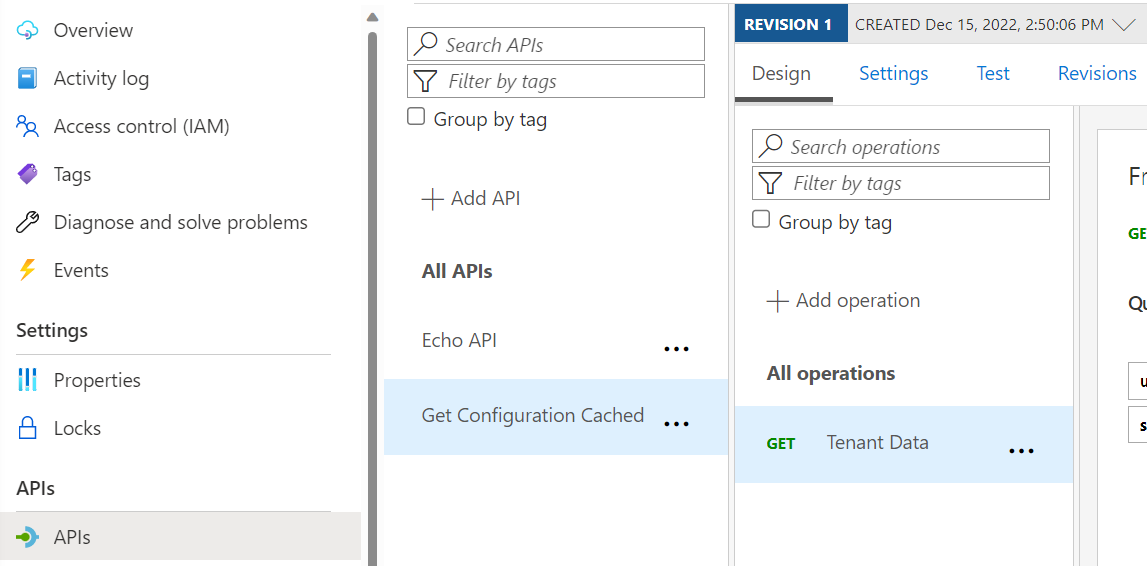
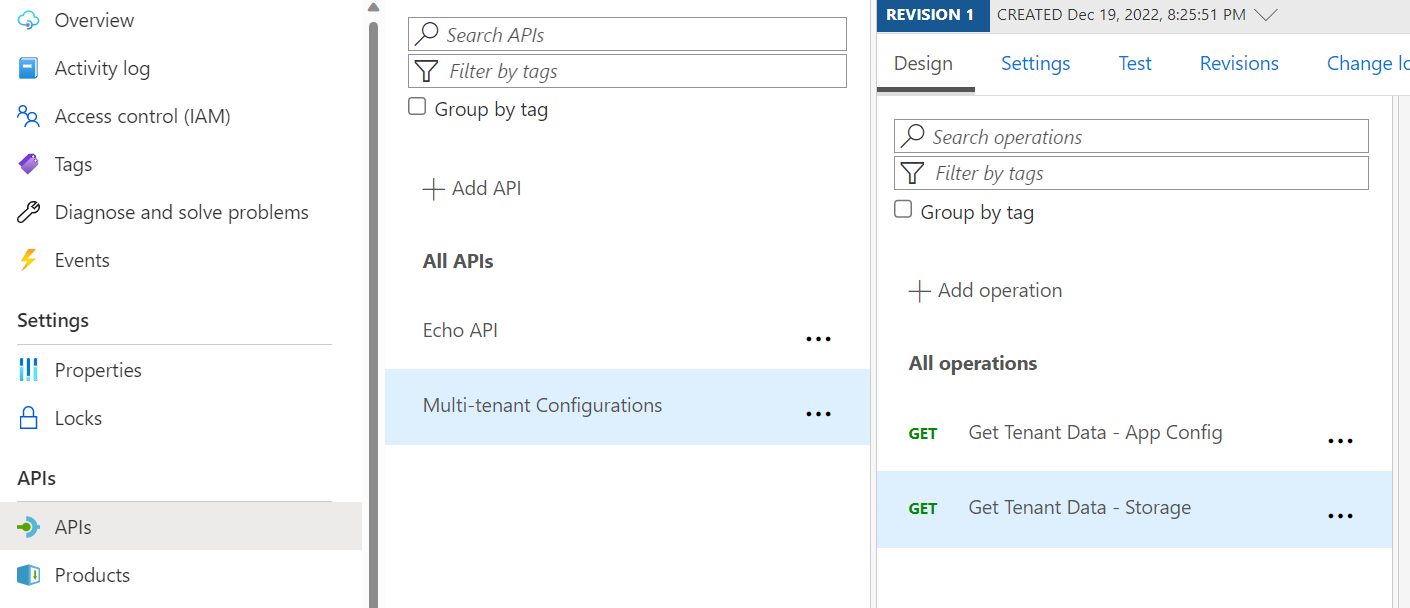
fix cache key collision

diff --git a/README.md b/README.md
@@ -47,7 +47,7 @@ Below is the policy definition that accomplishes the desired outcome.
         <set-variable name="storageTableUrl" value="@(context.Request.Url.Query.GetValueOrDefault("storagetableurl", ""))" />
 
         <!-- Look up internal cache for this tenant id (customer) -->
-        <cache-lookup-value key="@("tenantdata-" + context.Variables["tenantid"])" variable-name="tenantdata" />
+        <cache-lookup-value key="@("tenantdata-st-" + context.Variables["tenantid"])" variable-name="tenantdata" />
 
         <!-- If the tenantdata context variable doesn’t exist, make an HTTP request to retrieve it from Table Storage.  -->
         <choose>
@@ -74,7 +74,7 @@ Below is the policy definition that accomplishes the desired outcome.
                 <set-variable name="tenantdata" value="@(((IResponse)context.Variables["tenantdataresponse"]).Body.As<JObject>())" />
 
                 <!-- Store the response data to internal cache. Cache TTL = 120 seconds. Only cache Ok 200 responses -->
-                <cache-store-value key="@("tenantdata-" + context.Variables["tenantid"])" value="@((JObject)context.Variables["tenantdata"])" duration="120" />
+                <cache-store-value key="@("tenantdata-st-" + context.Variables["tenantid"])" value="@((JObject)context.Variables["tenantdata"])" duration="120" />
 
             </when>
         </choose>
@@ -114,7 +114,7 @@ Below is the policy definition that accomplishes the desired outcome.
         <set-variable name="appConfigUrl" value="@(context.Request.Url.Query.GetValueOrDefault("appconfigurl", ""))" />
 
         <!-- Look up internal cache for this tenant id (customer) -->
-        <cache-lookup-value key="@("tenantdata-" + context.Variables["tenantid"])" variable-name="tenantdata" />
+        <cache-lookup-value key="@("tenantdata-ac-" + context.Variables["tenantid"])" variable-name="tenantdata" />
 
         <!-- If the tenantdata context variable does not exist, make an HTTP request to retrieve it from App Configuration.  -->
         <choose>
@@ -132,7 +132,7 @@ Below is the policy definition that accomplishes the desired outcome.
                 <set-variable name="tenantdata" value="@(((IResponse)context.Variables["tenantdataresponse"]).Body.As<JObject>())" />
 
                 <!-- Store the response data to internal cache -->
-                <cache-store-value key="@("tenantdata-" + context.Variables["tenantid"])" value="@((JObject)context.Variables["tenantdata"])" duration="120" />
+                <cache-store-value key="@("tenantdata-ac-" + context.Variables["tenantid"])" value="@((JObject)context.Variables["tenantdata"])" duration="120" />
             </when>
         </choose>
         <!--
@@ -219,7 +219,7 @@ The deployment performs the following steps:
 
 You can use either the "Get Tenant Data - Storage" or "Get Tenant Data - App Config" API operation to demonstrate the capability. Below are steps for using Storage Account.
 
-1. Go to the demo APIM instance in Azure Portal, go to APIs, and find "Get Configuration Cached" under All APIs that gets deployed. Select the "Tenant data" Operation. Click Test.
+1. Go to the demo APIM instance in Azure Portal, go to APIs, and find "Multi-tenant Configurations" API under All APIs that gets deployed. Select the "Get Tenant Data - Storage" or "Get Tenant Data - App Config" Operation. Click Test.
     
     ![](media/s6.png)
 
@@ -227,7 +227,9 @@ You can use either the "Get Tenant Data - Storage" or "Get Tenant Data - App Con
     
     1. uid=tenantid1 
     
-    1. storagetableurl=https://\<YOUR STORAGE ACCOUNT NAME\>.table.core.windows.net/TenantMapping
+    1. If using Storage Operation, then storagetableurl=https://\<YOUR STORAGE ACCOUNT NAME\>.table.core.windows.net/TenantMapping
+
+    1. If using App Config Operation, then appconfigurl=https://\<YOUR APP CONFIGURATION NAME\>.azconfig.io
 
     The Tenant 1 data should be in the response:
 
